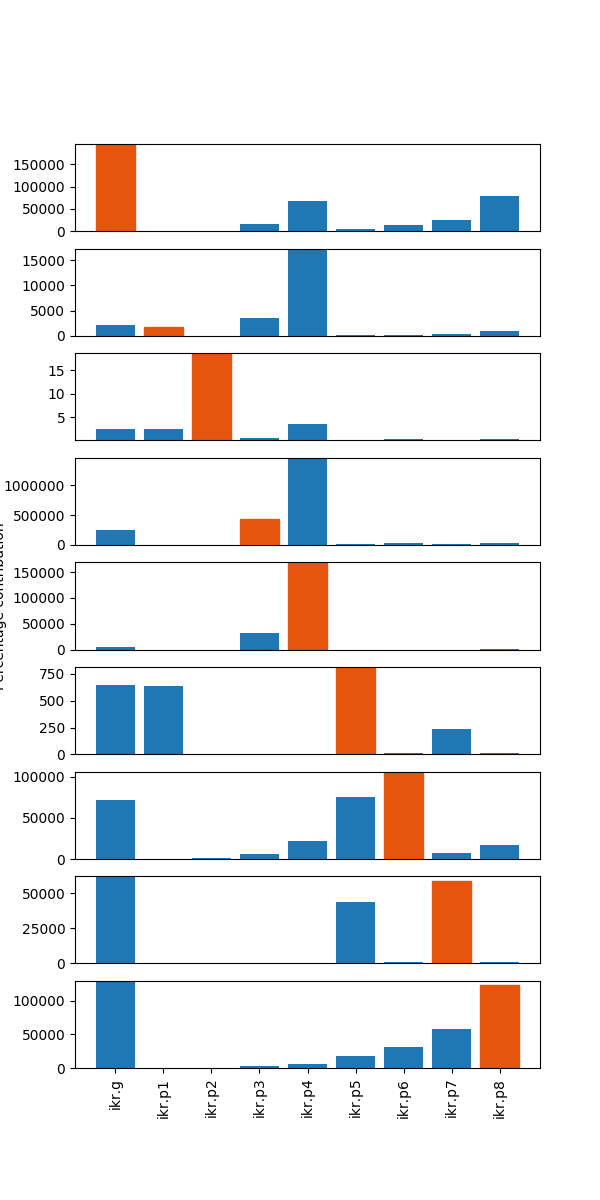
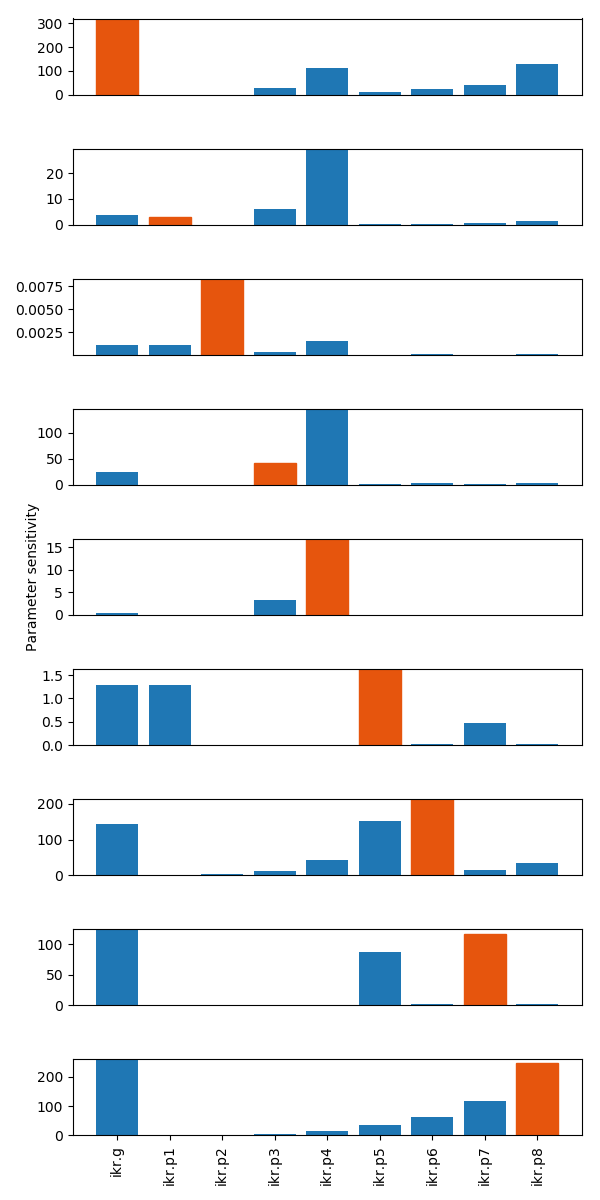
Update plots

diff --git a/optimise/plot.py b/optimise/plot.py
@@ -7,7 +7,6 @@ import numpy as np
 import matplotlib
 matplotlib.use('Agg')
 import matplotlib.pyplot as plt
-from matplotlib.patches import Rectangle
 
 import model as m
 
@@ -52,28 +51,27 @@ v = model.voltage(times)
 fig = plt.figure(figsize=(16, 6))
 fig.add_subplot(211)
 plt.plot(times, v)
-currentAxis = plt.gca()
 last_t = 0
 for i in range(len(all_p) // 6):
     p = all_p[6 * i:6 * (i + 1)]
     left_x = last_t + np.sum(p[1:-2:2])
     width_x = (np.sum(p[1::2]) - np.sum(p[1:-2:2]))
-    currentAxis.add_patch(Rectangle((left_x, -250), width_x, 500,
-            facecolor="grey", alpha=0.2))
+    plt.axvspan(left_x, left_x + width_x, facecolor="grey", alpha=0.2)
     last_t += np.sum(p[1::2])
+plt.ylabel('Voltage (mV)')
 fig.add_subplot(212)
-# plt.plot(t, d[model.current_list()[max_current]])
+# plt.plot(times, d[model.current_list()[max_current]]) # show specific current
 plt.plot(times, total_c)
-plt.ylim([-1, 2])
-currentAxis = plt.gca()
+plt.ylim([-500, 500])
 last_t = 0
 for i in range(len(all_p) // 6):
     p = all_p[6 * i:6 * (i + 1)]
     left_x = last_t + np.sum(p[1:-2:2])
     width_x = (np.sum(p[1::2]) - np.sum(p[1:-2:2]))
-    currentAxis.add_patch(Rectangle((left_x, -250), width_x, 500,
-            facecolor="grey", alpha=0.2))
+    plt.axvspan(left_x, left_x + width_x, facecolor="grey", alpha=0.2)
     last_t += np.sum(p[1::2])
+plt.ylabel('Current (pA)')
+plt.xlabel('Time (ms)')
 plt.savefig('%s/opt-prt-%s.png' % (savedir, info.save_name))
 
 
@@ -102,7 +100,7 @@ for ii in range(len(all_p) // 6):
 
         dIdvar = (d1[cur][idx_i:idx_f] - d_1[cur][idx_i:idx_f]) \
                 / (2 * sensitivity)
-        p_sensitivity.append(np.sum(np.abs(dIdvar)))
+        p_sensitivity.append(np.sum(np.abs(dIdvar)) / len(dIdvar))
     x = range(len(p_sensitivity))
 
     barlist = axes[ii].bar(x, p_sensitivity)
@@ -113,6 +111,7 @@ for ii in range(len(all_p) // 6):
 
 # plt.xticks(x, [i.split('.')[1] for i in model.current_list()])
 plt.xticks(x, info.parameters, rotation=90)
-axes[len(all_p) // 6 // 2].set_ylabel('Percentage contribution')
+axes[len(all_p) // 6 // 2].set_ylabel('Parameter sensitivity')
+plt.tight_layout()
 plt.savefig('%s/opt-prt-%s-matrix.png' % (savedir, info.save_name))
 
